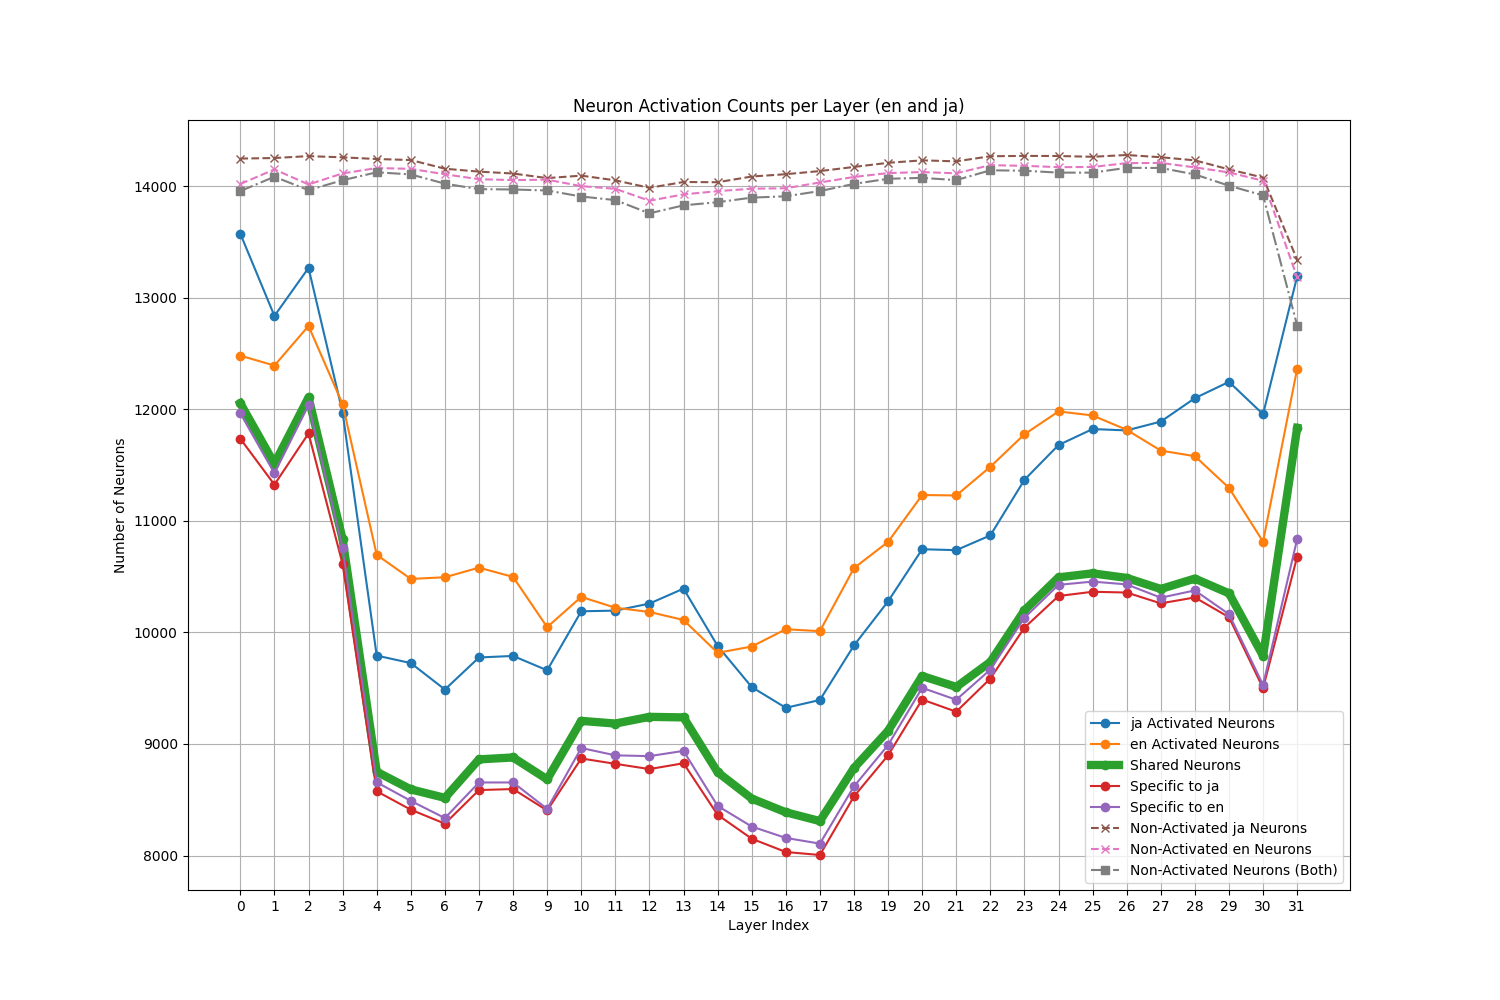
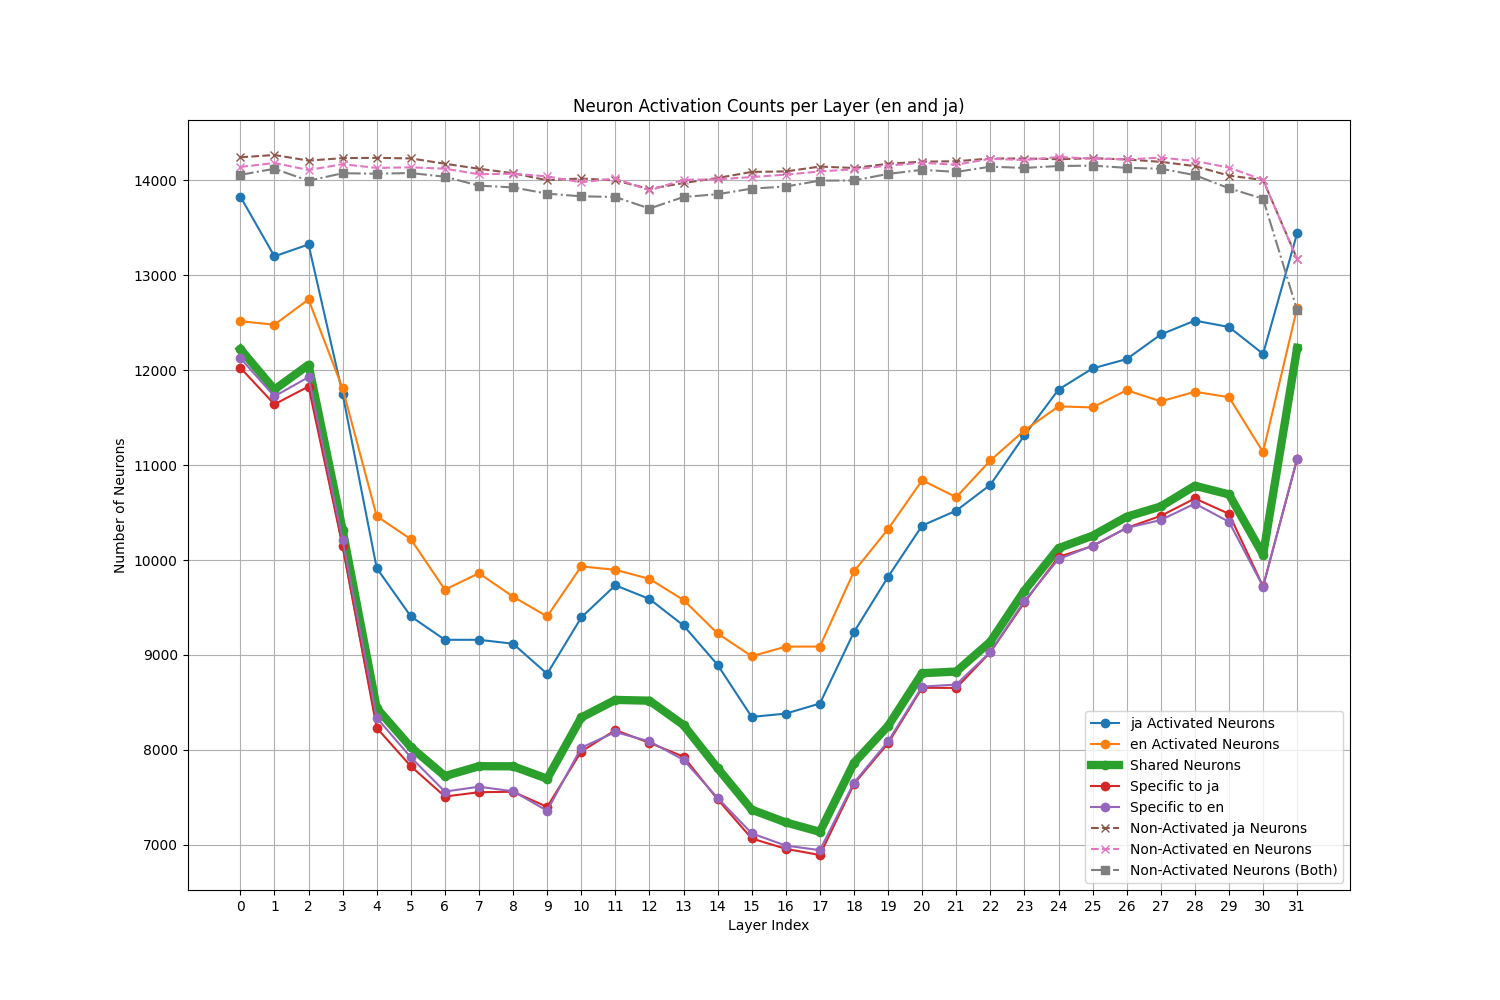
update/neuron_detection

diff --git a/activated_neuron/neuron_detection.py b/activated_neuron/neuron_detection.py
@@ -17,11 +17,11 @@ import visualization_funcs
 """ models """
 # LLaMA-3
 model_names = {
-    "ja": "tokyotech-llm/Llama-3-Swallow-8B-v0.1",
-    "ger": "DiscoResearch/Llama3-German-8B",
-    "du": "ReBatch/Llama-3-8B-dutch",
-    "ita": "DeepMount00/Llama-3-8b-Ita",
-    "ko": "beomi/Llama-3-KoEn-8B",
+    "ja": "tokyotech-llm/Llama-3-Swallow-8B-v0.1", # ja
+    "de": "DiscoResearch/Llama3-German-8B", # ger
+    "nl": "ReBatch/Llama-3-8B-dutch", # du
+    "it": "DeepMount00/Llama-3-8b-Ita", # ita
+    "ko": "beomi/Llama-3-KoEn-8B", # ko
 }
 
 L1 = "en" # L1 is fixed to english.
@@ -58,8 +58,8 @@ for L2, model_name in model_names.items():
     #     num_rows: 208866
     # })
     dataset = load_dataset("tatoeba", lang1=L1, lang2=L2, split="train")
-    # select first 500 sentences
-    dataset = dataset.select(range(500))
+    # select first 100 sentences
+    dataset = dataset.select(range(100))
     tatoeba_data = [(item['translation'][L1], item['translation'][L2]) for item in dataset]
     tatoeba_data_len = len(tatoeba_data)
 
